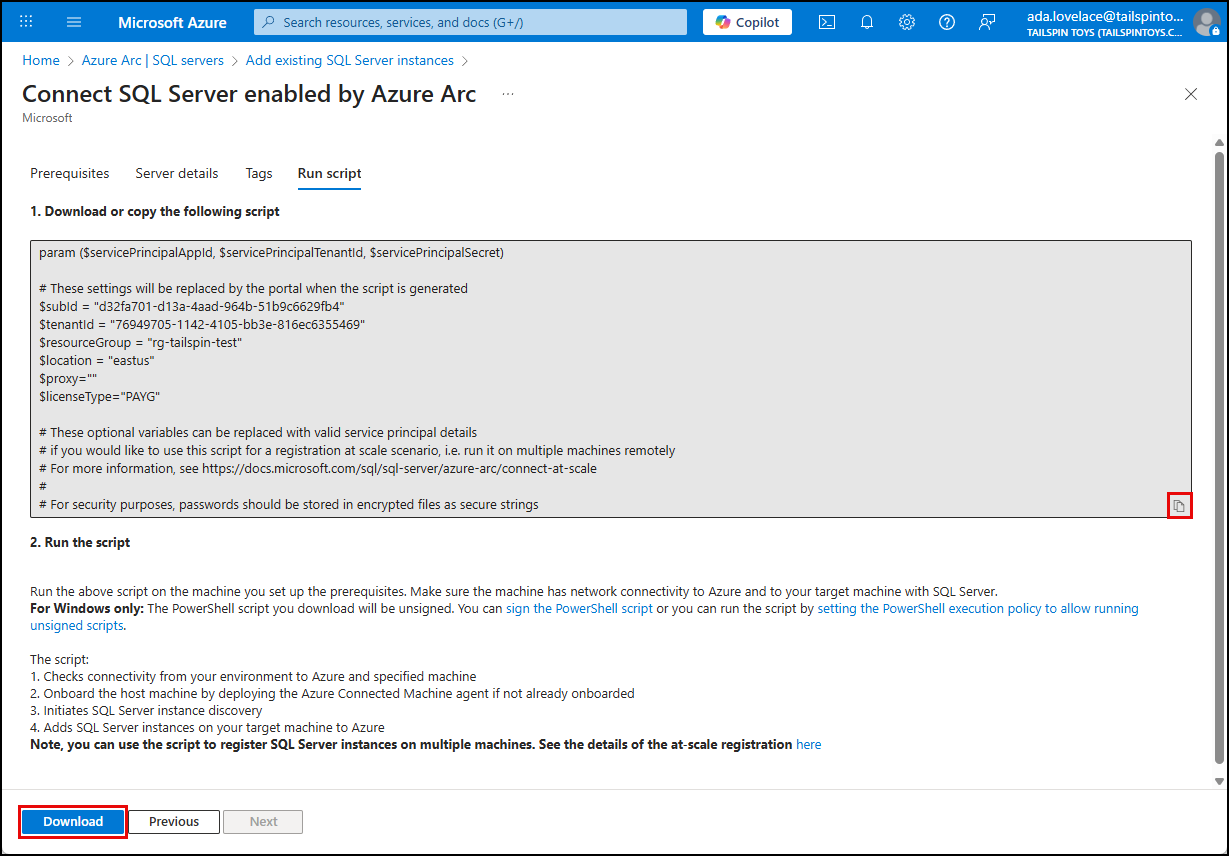
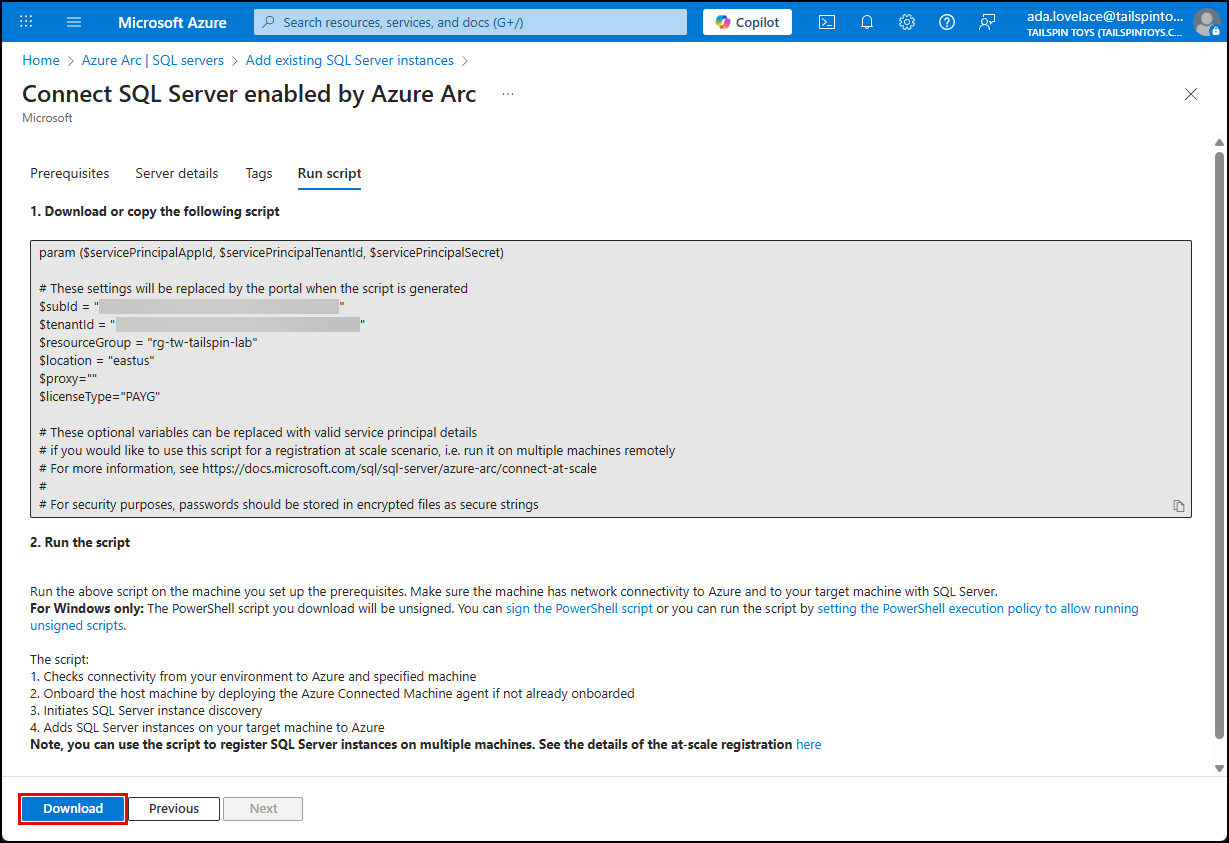
Lab 1 Task 1 updates for using Azure VMs

diff --git a/docs/01_sql_database_migration/01_01.md b/docs/01_sql_database_migration/01_01.md
@@ -17,10 +17,9 @@ In this task, you will Arc‑enable the simulated on‑premises SQL Server VM. A
 
 The key tasks are as follows:
 
-1. Connect to the `tailspin<uniqueid>-onprem-hyperv-vm` Virtual machine using Azure Bastion. This VM represents the Tailspin's on-premises SQL Server environment.
-2. Log into the simulated SQL Server VM from Hyper-V Manager.
-3. Install and configure Azure Arc on the VM to register it with Azure.
-4. Install the Azure extension for SQL Server to connect the SQL Server to Arc.
+1. Log in to the `tailspin<uniqueid>-onprem-sql-vm` Virtual machine using Azure Bastion. This VM represents the Tailspin's on-premises SQL Server environment.
+2. Install and configure Azure Arc on the VM to register it with Azure.
+3. Install the Azure extension for SQL Server to connect the SQL Server to Arc.
 
 ## Success Criteria
 
@@ -33,12 +32,12 @@ The key tasks are as follows:
 <details markdown="block">
 <summary>Expand this section to view the solution</summary>
 
-1. In the Azure Portal, navigate to the Resource Group for the lab and select the `tailspin<uniqueid>-onprem-hyperv-vm` virtual machine from the list of resources. This VM is the Hyper-V host containing the on-premises SQL Server VM.
+1. In the Azure Portal, navigate to the Resource Group for the lab and select the `tailspin<uniqueid>-onprem-sql-vm` virtual machine from the list of resources.
 
-    ![The Virtual machine pane for the Simulated on-premises SQL Server VM is shown in the Azure Portal.](../../Hands-on%20lab/images/azure-portal-onprem-hyperv-vm.png)
+    ![The Virtual machine pane for the Simulated on-premises SQL Server VM is shown in the Azure Portal.](../../Hands-on%20lab/images/azure-portal-onprem-sql-vm.png)
 
     {: .important }
-    > In this lab, the "on‑premises" SQL Server VM is simulated using a Hyper‑V guest VM running inside Azure. This design choice is required because the Azure Arc Connected Machine agent cannot be installed directly on Azure VMs. By using a nested Hyper‑V guest, you can Arc‑enable the VM as if it were truly on‑premises, ensuring the lab environment accurately reflects a hybrid scenario. This configuration is intended only for demo and testing purposes and should not be used in a production environment.
+    > In this lab, the "on‑premises" SQL Server VM is simulated using the guidance for [evaluating Azure Arc-enabled servers on an Azure virtual machine](https://learn.microsoft.com/azure/azure-arc/servers/plan-evaluate-on-azure-virtual-machine). This configuration is intended only for demo and testing purposes and should not be used in a production environment.
 
 2. Select **Bastion** under **Connect** in the left navigation menu, and on the Bastion blade, enter the following username and password, ensure **Open in a new browser window** is checked, then select **Connect**.
 
@@ -49,81 +48,70 @@ The key tasks are as follows:
 
 3. If prompted to allow the browser to "see text and images copied to the clipboard," select **Allow**.
 
-4. On the Hyper-V host VM, within the Bastion session, open **Hyper-V Manager** entering "hyper-v" into the search bar and selecting **Hyper-V Manager** in the result pane.
+    ![The allow button in the see text and images copied to the clipboard dialog is highlighted.](../../Hands-on%20lab/images/bastion-allow-clipboard.png)
 
-    ![The Hyper-V Manager application is shown.](../../Hands-on%20lab/images/hyper-v-manager-application.png "Hyper-V Manager")
+4. Once logged in to the SQL VM, open a web browser and navigate to the [Azure portal](https://portal.azure.com/).
 
-5. In **Hyper-V Manager**, select **WINSERVER** from the list of resources on the left, then right-click **OnPremSqlVM** in the Virtual Machines list and select **Connect...** in the context menu.
-
-    ![The Hyper-V Manager is shown with the on-premises SQL VM selected in the VM list and Connect highlighted in the context menu.](../../Hands-on%20lab/images/hyper-v-manager-onprem-sql-vm-connect.png)
-
-6. In the connection window, select **Connect** and log in to the VM using the following credentials:
-
-    - **Username** = `Administrator`
-    - **Password** = `JS123!!`
-
-7. Once logged in to **OnPremSQLVM**, open a web browser and navigate to the [Azure portal](https://portal.azure.com/).
-
-8. In the Azure portal, enter "azure arc" into the search bar, and select **Azure Arc** under **Services** in the results.
+5. In the Azure portal, enter "azure arc" into the search bar, and select **Azure Arc** under **Services** in the results.
 
     ![The text "azure arc" is entered in the search box, and Azure Arc is highlighted under Services in the results.](../../Hands-on%20lab/images/azure-search-azure-arc.png)
 
-9. On the Azure Arc blade, select **SQL servers** under **Data services** in the left menu, then select **Add** on the toolbar.
+6. On the Azure Arc blade, select **SQL servers** under **Data services** in the left menu, then select **Add** on the toolbar.
 
     ![SQL servers is highlighted under Data services in the left menu of the Arc blade, and Add is highlighted on the toolbar.](../../Hands-on%20lab/images/azure-arc-sql-servers-add.png)
 
-10. On the **Add existing SQL Server instances** page, select **Connect SQL Server instances** in the **Connect SQL Server instances to Azure Arc** tile to create a new registration.
+7. On the **Add existing SQL Server instances** page, select **Connect SQL Server instances** in the **Connect SQL Server instances to Azure Arc** tile to create a new registration.
 
     ![Connect SQL Server instances is highlighted within the *Connect SQL Server instances to Azure Arc tile.](../../Hands-on%20lab/images/azure-arc-connect-sql-server-instances.png)
 
-11. On the **Prerequistes** tab of the **Connect SQL Server enabled by Azure Arc** blade, review the prerequisites and ensure you have the required details, then select **Next: Server details**.
+8. After reviewing the **Prerequistes**, select **Next: Server details**.
 
-12. On the **Server details** tab, enter the following:
+9. On the **Server details** tab, enter the following:
 
     - **Subscription**: Select your subscription
     - **Resource group**: Select the `rg-tw-tailspin-lab` resource group you created for this lab
     - **Region**: Select the region associated with your resource group
     - **Operating system**: Choose `Windows`
-    - **Server Name**: Enter `OnPremSQLVM`
+    - **Server Name**: Enter `TailspinSql`
     - **License type**: Select `I want to license my production environment on this server with Enterprise or Standard edition pay-as-you-go ("PAYGO")`
     - Select **Next: Tags**
 
     ![The Server details tab is populated with the values specified above.](../../Hands-on%20lab/images/azure-arc-connect-sql-server-details.png)
 
-13. On the **Tags** tab, select **Next: Run script**.
+10. On the **Tags** tab, select **Next: Run script**.
 
-14. On the **Run script** tab, select **Download**. Alternatively, you can select the **Copy to clipboard** link, then paste the script into a file named `RegisterSqlServerArc.ps1` that you save to the SQL VM.
+11. On the **Run script** tab, select **Download**. Alternatively, you can select the **Copy to clipboard** link, then paste the script into a file named `RegisterSqlServerArc.ps1` that you save to the SQL VM.
 
     ![The Download button is highlighted on the Connect SQL Server enabled by Azure Arc page.](../../Hands-on%20lab/images/azure-arc-connect-sql-server-run-script.png)
 
-15. On the **OnPremSQLVM**, open PowerShell as an administrator.
+12. On the SQL VM, open PowerShell as an administrator.
 
     ![PowerShell is entered into the Windows search bar, Windows PowerShell is selected in the results, and Run as administrator is highlighted in the context menu.](../../Hands-on%20lab/images/sql-vm-start-search-powershell.png)
 
-16. At the PowerShell prompt, change directories to the location where you saved the downloaded file.
+13. At the PowerShell prompt, change directories to the location where you saved the downloaded file.
 
     {: .note}
-    > You can simplify the commands by coping the downloaded file to `C:\scripts` or a similar short path.
+    > You can simplify the commands by coping the downloaded file to `C:\scripts` or a similarly short path.
 
-17. Run the following command:
+14. Run the following command:
 
     ```powershell
     ./RegisterSqlServerArc.ps1
     ```
 
-    ![The RegisterSqlServerArc.ps1 command in highlighted in the PowerShell dialog. The command output is displayed.](../../Hands-on%20lab/images/register-sql-server-arc.png)
-
     {: .important}
-    > If you receive the error, 'Cannot install Azure Connected Machine agent on an Azure Virtual Machine. Azure Connected Machine Agent is designed for use outside Azure,' you are likely on the Hyper-V host machine and not the OnPremSQLVM. Verify you are on the right VM and try again.
+    > If you receive the error, 'Cannot install Azure Connected Machine agent on an Azure Virtual Machine. Azure Connected Machine Agent is designed for use outside Azure,' execute the steps in PowerShell found in the [step-by-step guide to enable Azure Arc on an Azure VM](https://learn.microsoft.com/azure/azure-arc/servers/plan-evaluate-on-azure-virtual-machine#step-by-step-guide) to prepare your VM.
 
-18. When prompted, navigate to <https://microsoft.com/devicelogin>, enter the code provided in the PowerShell window, and follow the prompts to log into your Azure account.
+15. When prompted, navigate to <https://microsoft.com/devicelogin>, enter the code provided in the PowerShell window, and follow the prompts to log into your Azure account.
 
-19. The script will take several minutes to complete. It onboards SQL Server for Arc by installing the Azure Connected Machine Agent and the Azure Extension for SQL Server.
+    ![The authentication URL and code are highlighted in the PowerShell dialog.](../../Hands-on%20lab/images/register-sql-server-arc-auth.png)
 
-20. When the script completes, verify you see the message that "Azure Extension for SQL Server was successfully installed."
+16. The script will take 5-10 minutes to complete. It onboards SQL Server by installing the Azure Connected Machine Agent and the Azure Extension for SQL Server, and registering the machine with Azure Arc. When the script completes, verify you see the successful installation message.
 
-21. Return to the Azure Arc **SQL servers** page in the Azure portal and verify you see the `OnPremSQLVM` server and databases.
+    ![The success message is highlighted in the command output.](../../Hands-on%20lab/images/register-sql-server-arc-success.png)
 
-    ![SQL Servers is highlighted under Data services on the Azure Arc page and the OnPremSQLVM server is highlighted in the list of SQL Servers.](../../Hands-on%20lab/images/azure-arc-sql-servers-instances.png)
+17. Return to the Azure Arc **SQL servers** page in the Azure portal, select **Refresh**, and verify the `TailspinSql` SQL server appears in the list.
+
+    ![SQL Servers is highlighted under Data services on the Azure Arc page, the Refresh button is highlighted, and the TailspinSql server is highlighted in the list of SQL Servers.](../../Hands-on%20lab/images/azure-arc-sql-servers-instances.png)
 
 </details>
